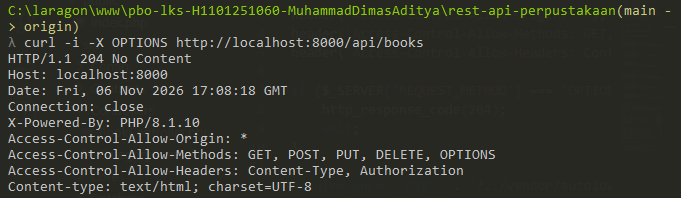
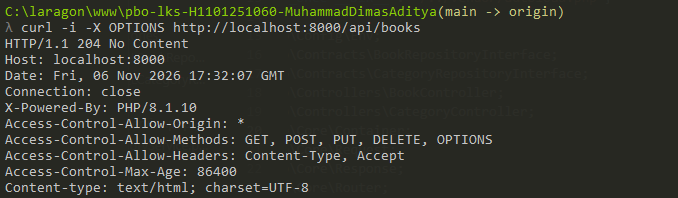
Pertemuan 6 - Langkah 16: sesuaikan header CORS dengan LKS

Changed region(s): [[0.0, 0.5152, 0.7434, 1.0], [0.0, 0.0303, 0.9602, 0.2424], [0.0, 0.2727, 0.4336, 0.4848]]

diff --git a/rest-api-perpustakaan/public/index.php b/rest-api-perpustakaan/public/index.php
@@ -2,7 +2,8 @@
 
 header('Access-Control-Allow-Origin: *');
 header('Access-Control-Allow-Methods: GET, POST, PUT, DELETE, OPTIONS');
-header('Access-Control-Allow-Headers: Content-Type, Authorization');
+header('Access-Control-Allow-Headers: Content-Type, Accept');
+header('Access-Control-Max-Age: 86400');
 
 if ($_SERVER['REQUEST_METHOD'] === 'OPTIONS') {
     http_response_code(204);
